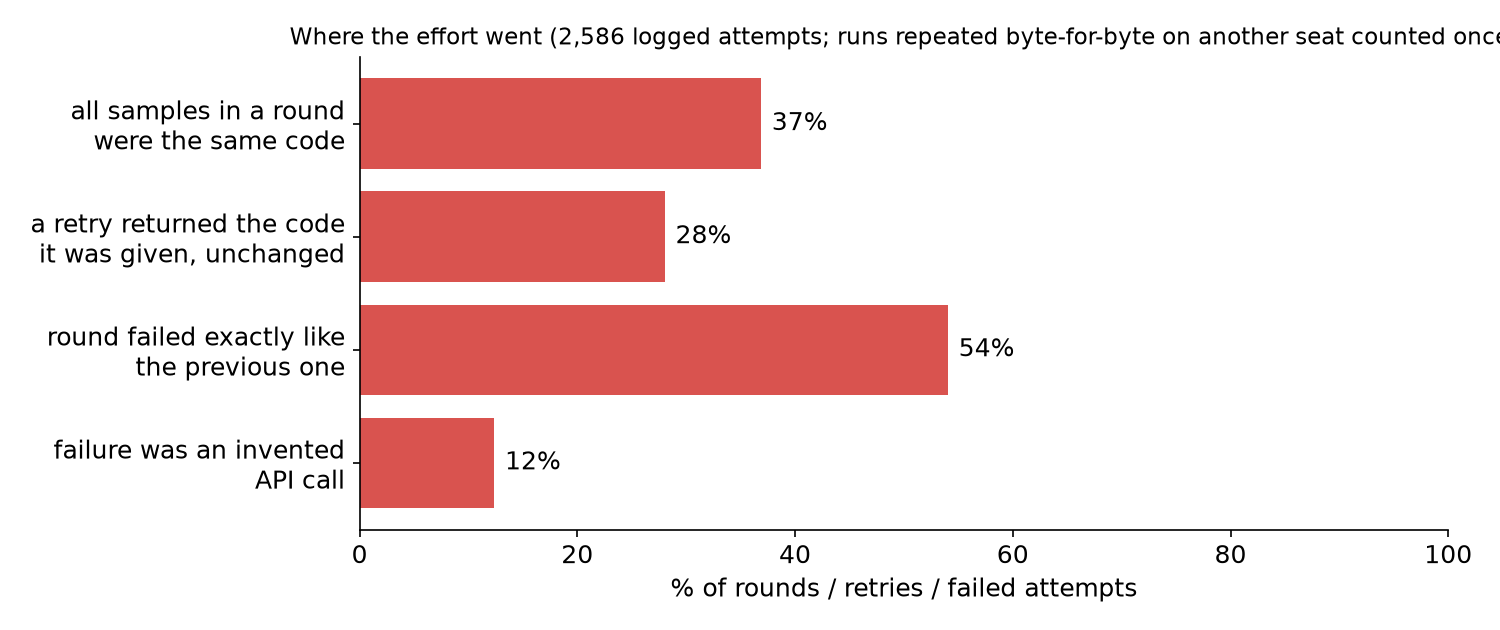
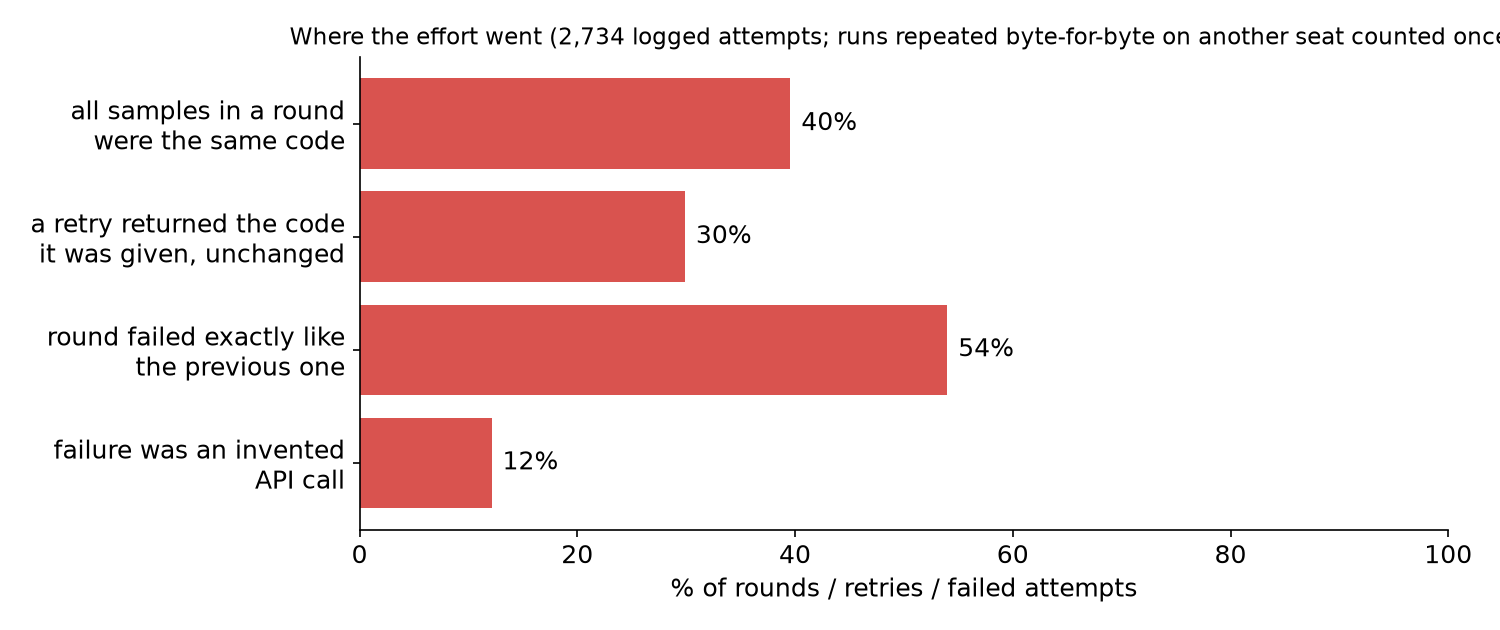
Per-level latency chart; charts and RESULTS refreshed with the latest runs

diff --git a/projects/20-kernel-agent/RESULTS.md b/projects/20-kernel-agent/RESULTS.md
@@ -76,6 +76,12 @@ stage-by-stage plan in the prompt.
 
 ![Inference speed](assets/chart_6_inference.png)
 
+**Per level:** before, only levels 8 and 11 were timed, at 140 s and 109 s per round; now every level takes
+7–16 s a round (level 8 40 s, its prompts are the longest), and solved runs reach SOLVED in a median of 10–34 s.
+Level 4 is left out: its only timed runs hit a checker regression, since fixed.
+
+![Latency per level](assets/chart_7_latency_by_level.png)
+
 ## Kernels we optimized by hand (separate from the agent's)
 
 `optimized/` holds four of the agent's kernels improved by us — **not agent output**, and `solved/` is untouched.
@@ -99,20 +105,20 @@ with the stage plan **1,441**. The bloated level-8 prompt failed; the shorter, e
 Every chart below is computed from the log in this repo (`analysis/make_charts.py`): the shipped attempts plus
 the counts recorded for the failed level-8 attempts trimmed out (`logs/level8_failures_summary.json`). Seats
 repeated each other (identical sampling), so repeats are counted once: a run byte-identical to another seat's
-counts once in the rates (2,586 of 2,886 attempts), and the taxonomy counts distinct wrong kernels.
+counts once in the rates (2,734 of 3,034 attempts), and the taxonomy counts distinct wrong kernels.
 
 ![Where effort was wasted](assets/chart_3_waste.png)
 
-* **37%** of rounds had identical samples, and sampling is deterministic across servers: four seats ran
+* **40%** of rounds had identical samples, and sampling is deterministic across servers: four seats ran
   **byte-identical** level-8 traces. Per-request seeds crash this vLLM-Neuron build and per-server `--seed`
   did not change the samples, so parallel seats did not add independent tries. **Open problem.**
-* **28%** of retries returned the code unchanged — the loop now says "you changed nothing"; **54%** of rounds
+* **30%** of retries returned the code unchanged — the loop now says "you changed nothing"; **54%** of rounds
   failed exactly like the round before; **12%** of failures were invented API calls (now caught by lint
   against the installed NKI).
 
 ![Failure taxonomy](assets/chart_4_failures.png)
 
-**Failure taxonomy** (706 distinct wrong kernels behind 2,687 failed attempts, by the first problem found):
+**Failure taxonomy** (726 distinct wrong kernels behind 2,815 failed attempts, by the first problem found):
 wrong shape or layout dominates every matmul and attention level; invented APIs are the main failure on levels
 1 and 10; 221 of level 8's 323 distinct wrong kernels are shape/layout, mostly q passed to the matmul
 untransposed for q·kᵀ.
@@ -173,7 +179,7 @@ projects/20-kernel-agent/
 ├── solved/               every kernel the agent wrote that passed, with its re-check printout
 ├── optimized/            four of those kernels optimized by hand (team-written, labelled)
 ├── results/              device/ (real-chip results) · seat97-repair/ (level-8 evidence)
-├── logs/                 attempt log (1,790 of 2,886 attempts) + what the trimmed level-8 failures add
+├── logs/                 attempt log (1,938 of 3,034 attempts) + what the trimmed level-8 failures add
 ├── analysis/             trace_analysis (failure taxonomy), make_charts, ab (A/B runner)
 ├── assets/               the diagram and charts
 └── reference_level1-4.py, kernelbench.py, try_level.py, CHALLENGE-kernel-agent.md   (from the original repo)
@@ -210,6 +216,7 @@ projects/20-kernel-agent/
 | tolerance margins | `solved/*.check.txt`, `results/device/*.json` (`max_rel_err`), mutation suite output |
 | [R8] lint has no false alarm on correct kernels | lint returns nothing on all 11 `solved/` and 4 `optimized/` kernels |
 | [R9] 7× faster inference | `chart_6_inference.png`, computed from `prompt_tokens`/`completion_tokens`/`seconds` in the log |
+| latency per level | `chart_7_latency_by_level.png`, from the timed rounds (`latency_by_level` in `logs/level8_failures_summary.json`) |
 | failure taxonomy | `chart_4_failures.png` + `logs/level8_failures_summary.json`, computed by `analysis/make_charts.py` |
 
 ## Rubric checklist
